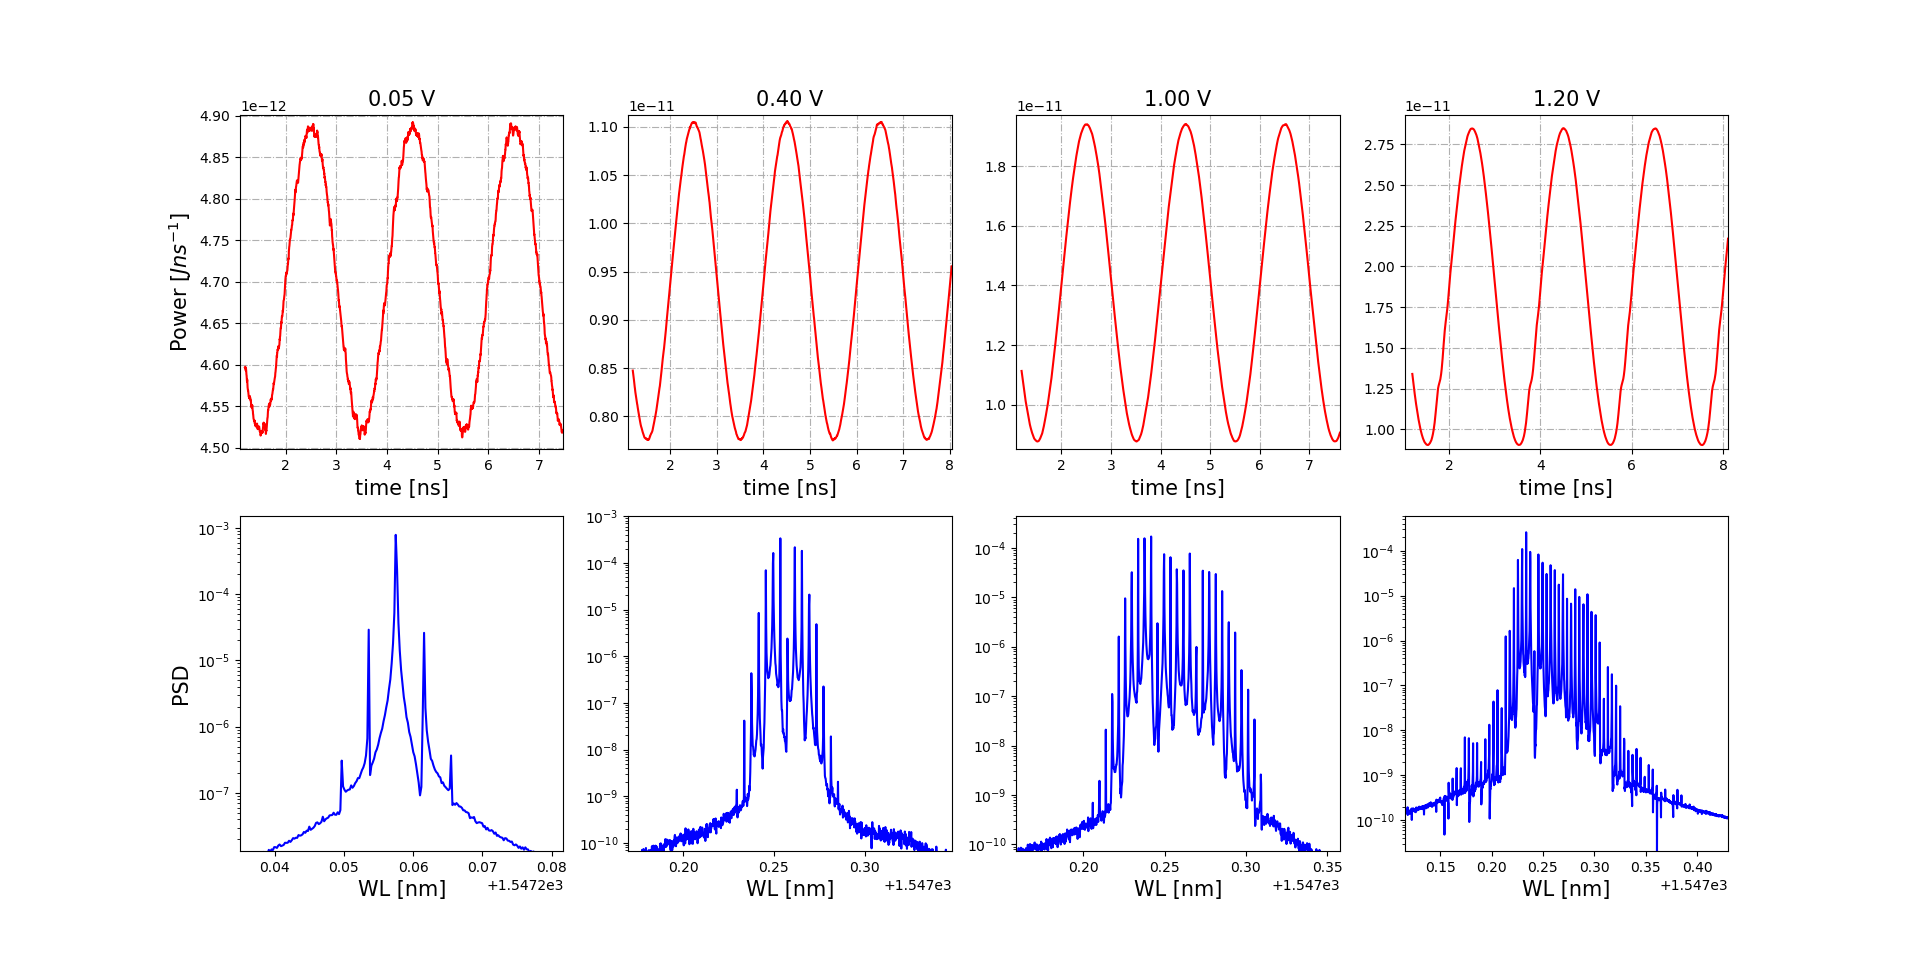
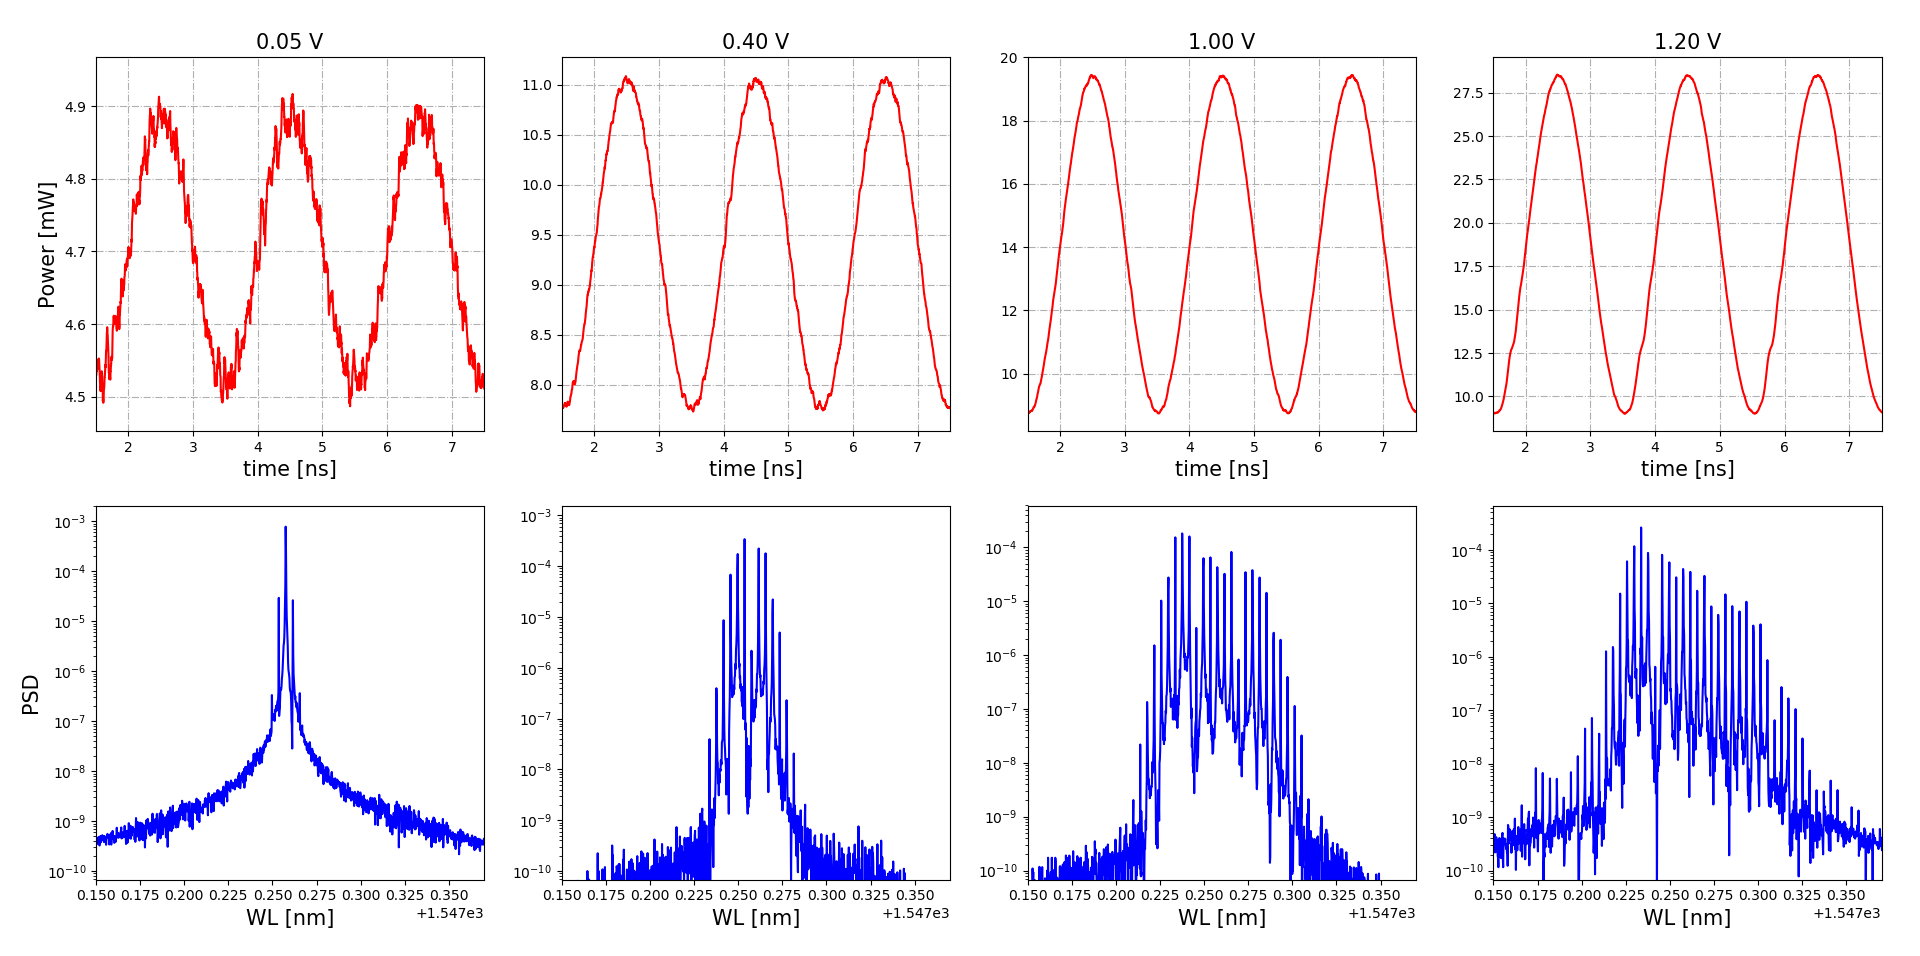
500MHz

diff --git a/src/500MHz.py b/src/500MHz.py
@@ -13,11 +13,12 @@ deltaF = getConstante(iBias)
 faseTerm = faseConstant - pi2t * deltaT
 
 vRF = [0.05 *10**(-9), 0.4 *10**(-9), 1.0 * 10**(-9), 1.2 * 10**(-9)]#, 1.5 * 10**(-9)] #RMS voltage value of the signal generator [V]
+#psdLimits = [[], [], [], []]
 
 fR = 0.5 # [GHz]
 rInt = 103.36 # [Ohm]
 
-nWindw = 20 # numero de ventanas (para promediar) N natural
+nWindw = 1 # numero de ventanas (para promediar) N natural
 
 delta = 0.0025 # tiempo de muestreo para la FFT [ns]
 nFFT = int(tWindw / delta) # numero de puntos de la FFT (potencia de 2)
@@ -64,7 +65,7 @@ fftWL = (c0/fftTime) *10**(9) # longitud de onda [nm]
 
 fig, axs = plt.subplots(2, len(vRF), figsize=(17, 10))
 # Remove horizontal space between axes
-fig.subplots_adjust(left=0.05, bottom=0.08, right=0.96, top=0.94, hspace=0.2)
+fig.subplots_adjust(left=0.05, bottom=0.08, right=0.98, top=0.94, hspace=0.2)
 
 for i in range(len(vRF)):
     inten = current(time, vRF[i])
@@ -100,7 +101,7 @@ for i in range(len(vRF)):
                                 cTIntv*tempN**3 - vgT*tempN*invS + vgtN*invS)
 
         opField[0] = np.sqrt(constP * tempS) * np.exp(1j*tempPhi)
-        P[0] += (constP * tempS *10**(9))/float(nWindw)
+        P[0] += (constP * tempS *10**(12))/float(nWindw)
         tmP[0] = time[q]
 
         for q in range(1, nFFT):
@@ -122,7 +123,7 @@ for i in range(len(vRF)):
                                 (cTIntv*tempN**3) - vgT*tempN*invS + vgtN*invS)
 
             opField[q] = np.sqrt(constP * tempS) * np.exp(1j*tempPhi)
-            P[q] += (constP * tempS *10**(9))/float(nWindw)
+            P[q] += (constP * tempS *10**(12))/float(nWindw)
             tmP[q] = time[index]
 
         transFourier = np.fft.fft(opField)
@@ -138,12 +139,14 @@ for i in range(len(vRF)):
     axs[0][i].plot(tmP, P, 'r')
     axs[0][i].grid(linestyle='-.')
     axs[0][i].set_xlabel("time [ns]", fontsize=15)
+    axs[0][i].set_xlim([1.5, 7.5])
 
     axs[1][i].plot(fftWL, TFprom, 'b')
     axs[1][i].set_yscale("log")
     axs[1][i].set_xlabel("WL [nm]", fontsize=15)
+    axs[1][i].set_xlim([1547.15, 1547.37])
+    axs[1][i].set_ylim(6.82*10**(-11))
 
-axs[0][0].set_ylabel("Power [$W$]", fontsize=15)
+axs[0][0].set_ylabel("Power [mW]", fontsize=15)
 axs[1][0].set_ylabel("PSD", fontsize=15)
 plt.show()
-
